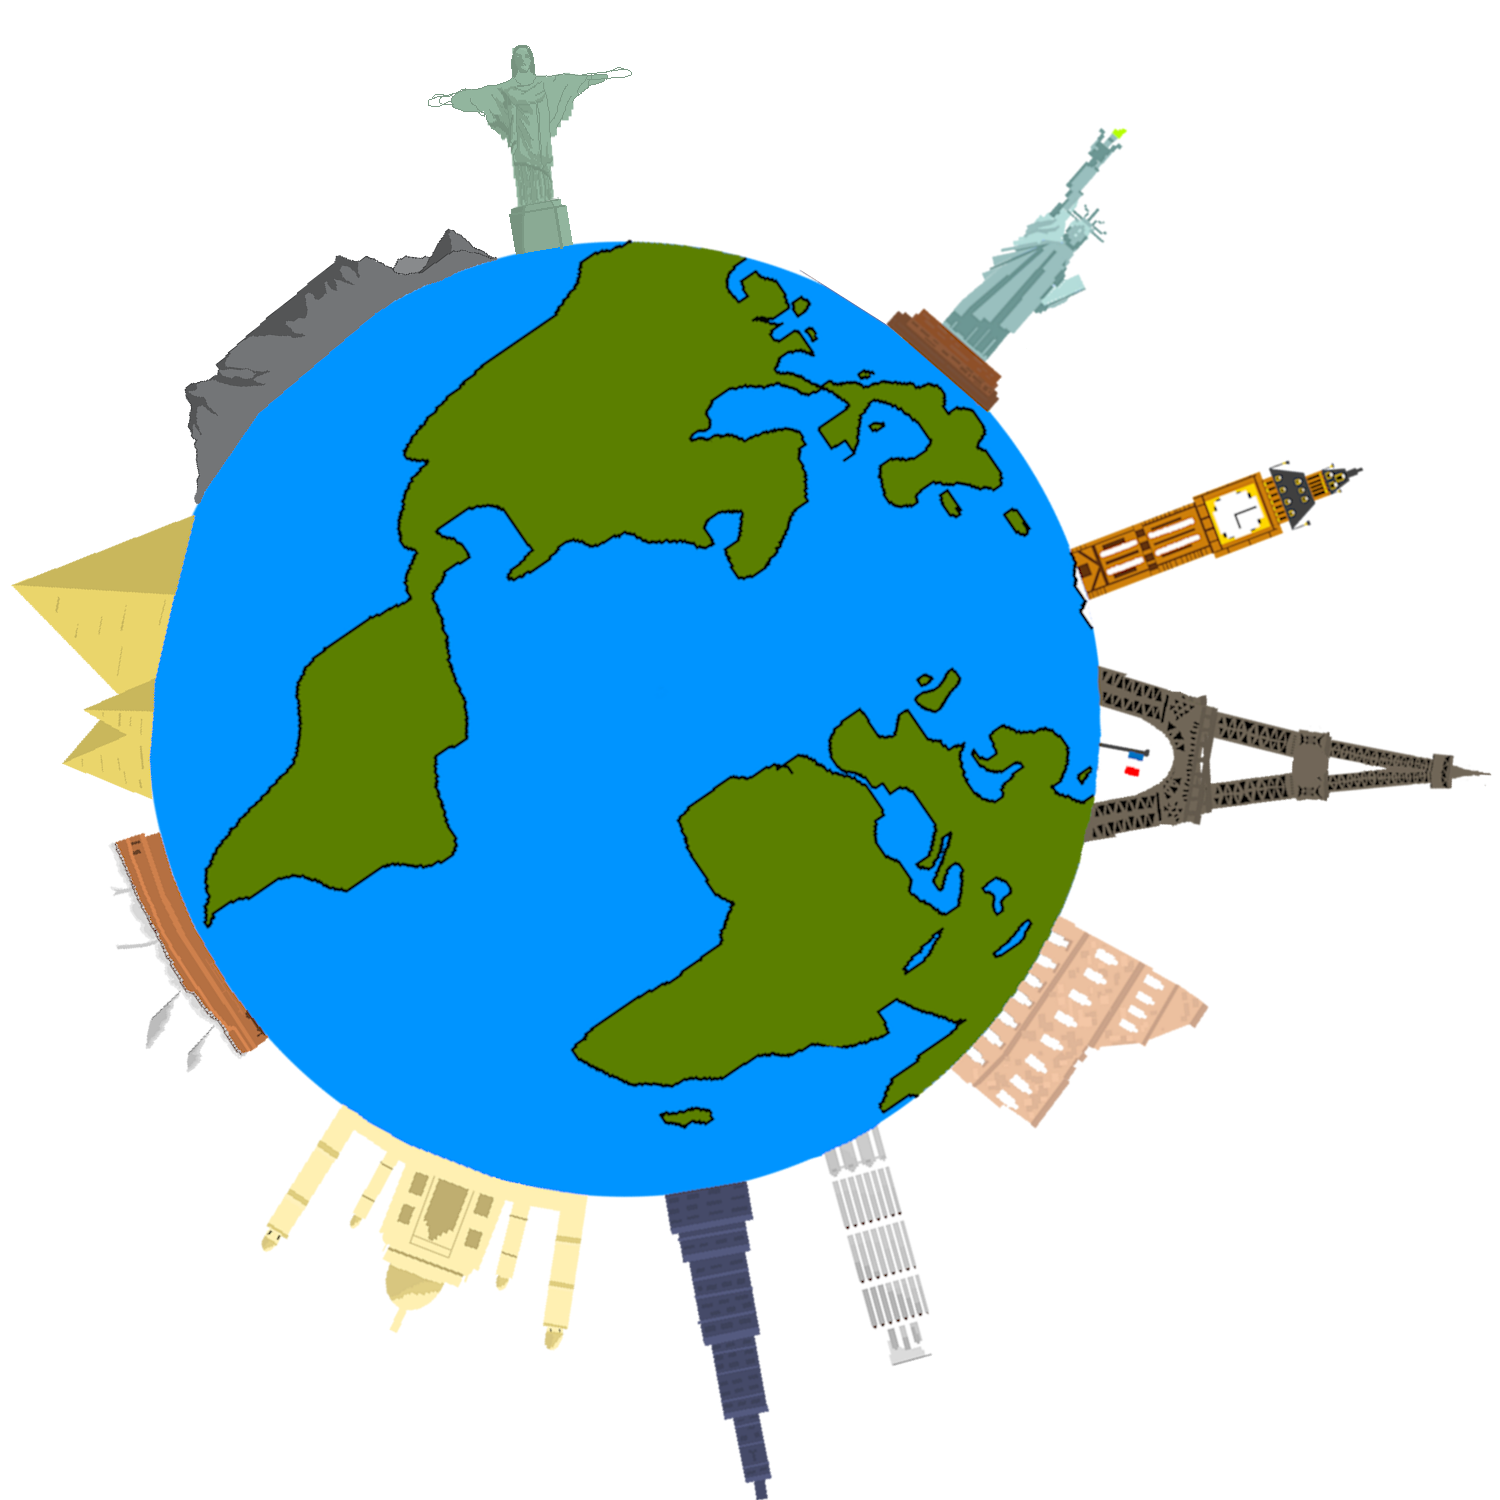
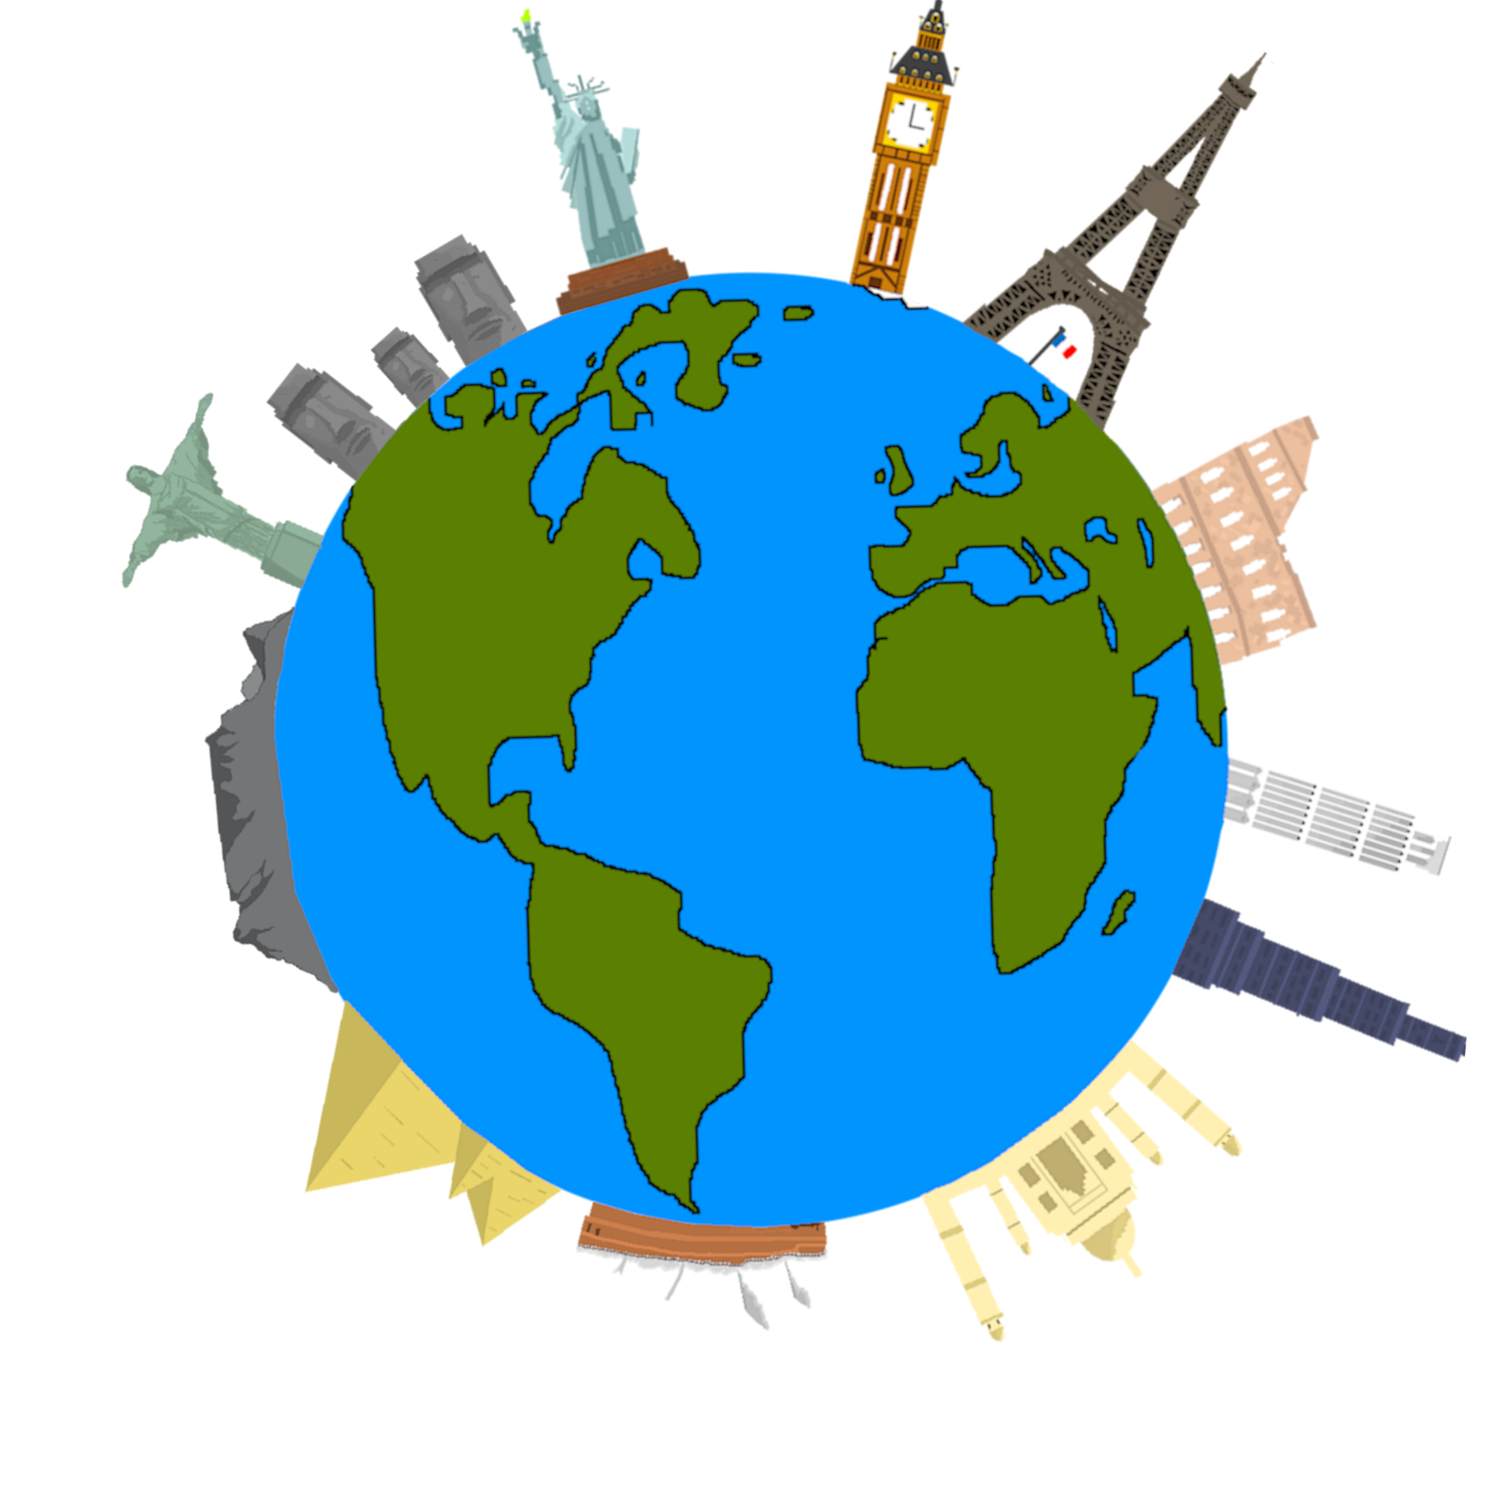
update world

diff --git a/scripts/GroundObstacle.js b/scripts/GroundObstacle.js
@@ -1,12 +1,12 @@
 class GroundObstacle{
     constructor(game, x){
         this.game = game;
-        this.spriteWidth = 120;
-        this.spriteHeight = 120;
+        this.spriteWidth = 70;
+        this.spriteHeight = 70;
         this.scaledWidth = this.spriteWidth * this.game.ratio;
         this.scaledHeight = this.spriteHeight * this.game.ratio;
         this.xCord = x;
-        this.yCord = (555 * this.game.ratio) + this.scaledHeight
+        this.yCord = (555 * this.game.ratio) + this.scaledHeight*2
     }
     update(){
        

diff --git a/scripts/DiagonalRightObstacle.js b/scripts/DiagonalRightObstacle.js
@@ -1,8 +1,8 @@
 class DiagonalRightObstacle{
     constructor(game, x){
         this.game = game;
-        this.spriteWidth = 120;
-        this.spriteHeight = 120;
+        this.spriteWidth = 90;
+        this.spriteHeight = 90;
         this.scaledWidth = this.spriteWidth * this.game.ratio;
         this.scaledHeight = this.spriteHeight * this.game.ratio;
         this.xCord = x;

diff --git a/scripts/DiagonalLeftObstacle.js b/scripts/DiagonalLeftObstacle.js
@@ -1,8 +1,8 @@
 class DiagonalLeftObstacle{
     constructor(game, x){
         this.game = game;
-        this.spriteWidth = 120;
-        this.spriteHeight = 120;
+        this.spriteWidth = 80;
+        this.spriteHeight = 80;
         this.scaledWidth = this.spriteWidth * this.game.ratio;
         this.scaledHeight = this.spriteHeight * this.game.ratio;
         this.xCord = x;

diff --git a/scripts/TopObstacle.js b/scripts/TopObstacle.js
@@ -1,8 +1,8 @@
 class TopObstacle{
     constructor(game, x){
         this.game = game;
-        this.spriteWidth = 120;
-        this.spriteHeight = 120;
+        this.spriteWidth = 100;
+        this.spriteHeight = 100;
         this.scaledWidth = this.spriteWidth * this.game.ratio;
         this.scaledHeight = this.spriteHeight * this.game.ratio;
         this.xCord = x;

diff --git a/scripts/world.js b/scripts/world.js
@@ -54,7 +54,7 @@ class World{
         
     }
     update(){
-        this.angle = this.angle + (0.1 * this.game.ratio)
+        this.angle = this.angle + (-0.1 * this.game.ratio)
     }
     resize(){
         
